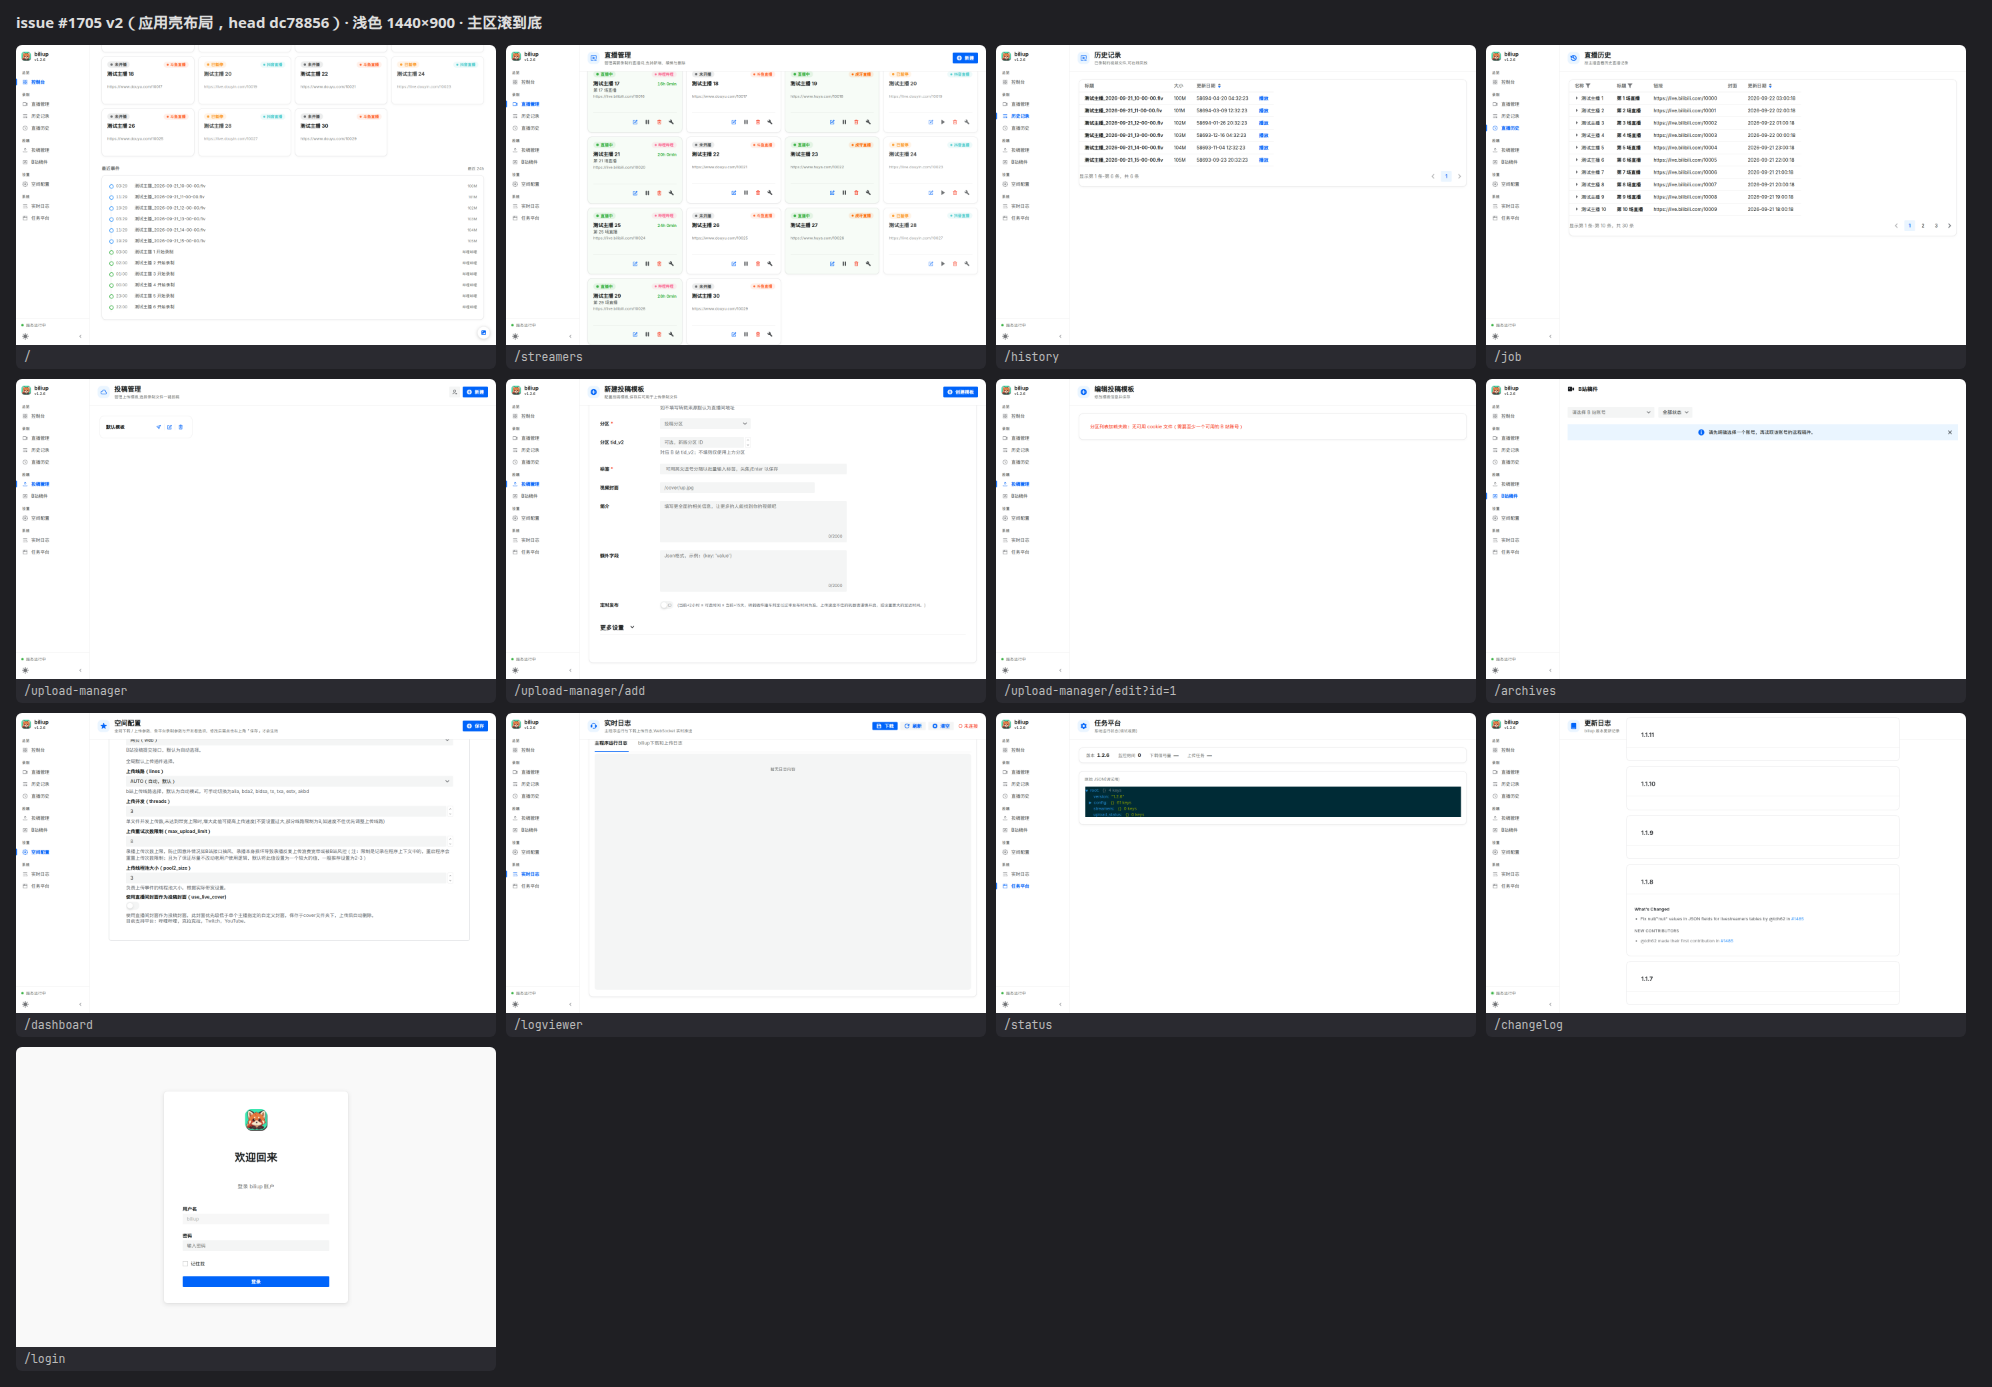
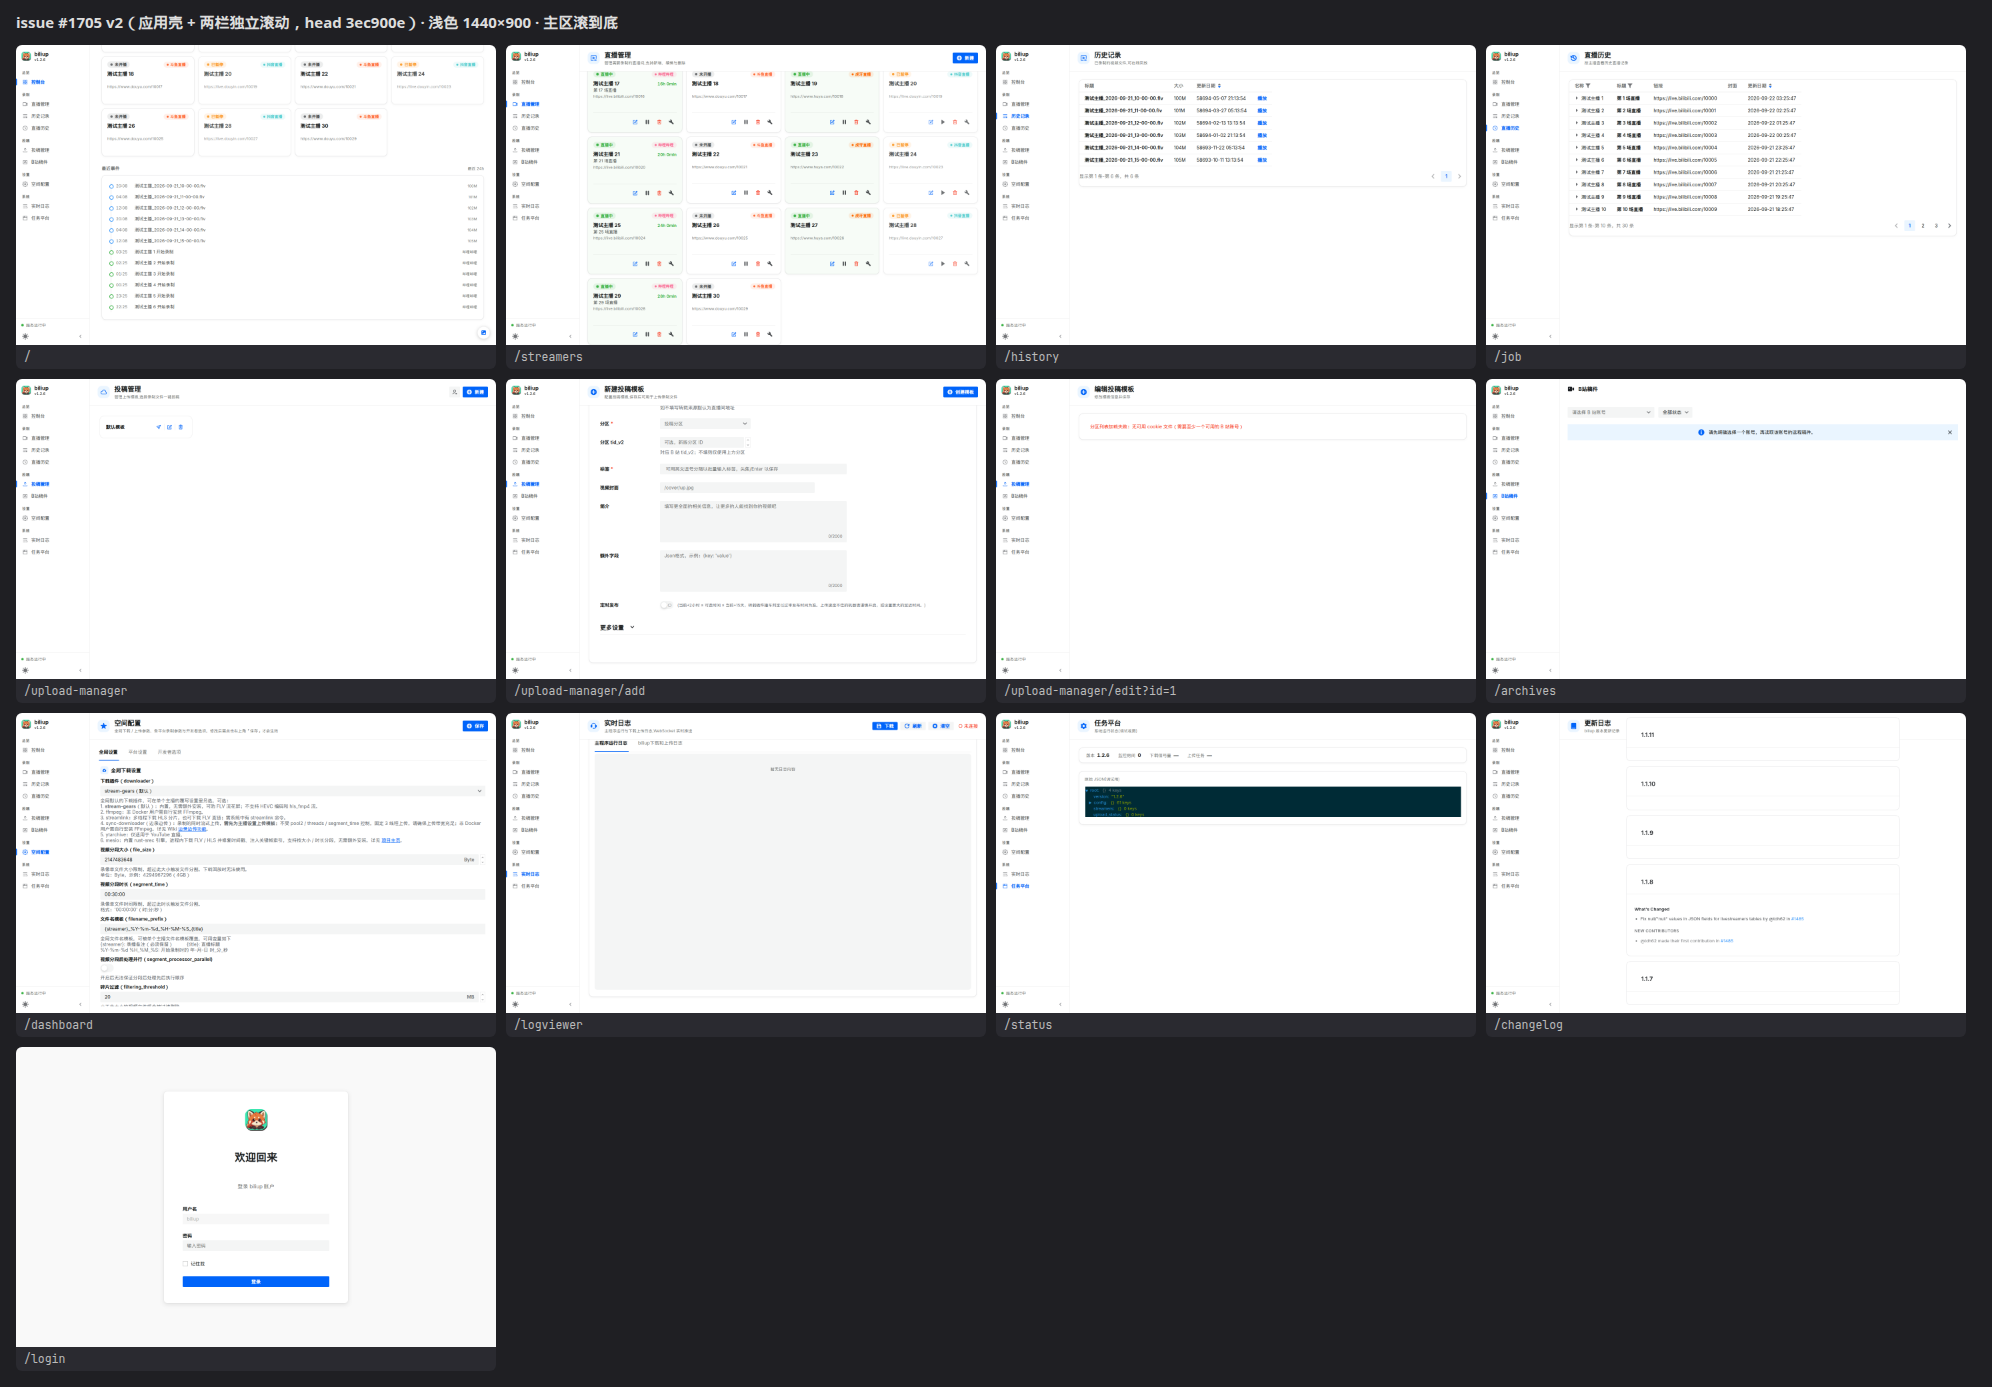
docs: PR #1706 review 第二轮后的截图（两栏独立滚动，9 张）

Changed region(s): [[0.0311, 0.527, 0.2179, 0.713], [0.0934, 0.0, 0.3112, 0.031]]

diff --git a/README.md b/README.md
@@ -35,3 +35,20 @@
 | `issue1705-v2-overlay-override-modal-select.png` | 直播管理「配置覆写」弹窗（Collapse.Panel 不变）及其内部 Select 下拉定位正确 |
 | `issue1705-v2-submitfail-global-to-douyu.png` | commit 3：校验失败自动切到出错字段所在平台并提示（Tab 切换动画已恢复） |
 | `issue1705-v2-all-pages-light.png` | 13 页拼图：浅色 1440×900，主区滚到底，侧栏 / 页脚 / 页头全部在位 |
+
+## v2 第二轮（head `3ec900e`，平台设置去掉外层卡片、两栏独立滚动）
+
+ForgQi 第二条意见：平台列表通过布局不随内容滚动、去掉外层嵌套卡片。空间配置页改为每个 Tab 面板占满页头以下的剩余高度并在内部滚动；
+平台设置是左列列表 + 右栏字段两栏各自滚动。以下文件在 `3ec900e` 上重拍并覆盖同名旧文件（旧版本仍可按旧 SHA 引用）：
+
+| 文件 | 内容 |
+| --- | --- |
+| `issue1705-v2-dashboard-light-platform-bilibili-top.png` | 平台设置两栏布局，无外层卡片，浅色 |
+| `issue1705-v2-dashboard-dark-platform-bilibili-bottom.png` | 右栏（哔哩哔哩 1223px）滚到底，左列平台列表、页头「保存」、侧栏都不动 |
+| `issue1705-v2-mobile-dashboard-light-platform-bilibili-bottom.png` | 390px：上下堆叠，横向标签行固定在顶部，字段区独立滚动 |
+| `issue1705-v2-dashboard-light-global-top.png` | 全局设置一致去掉卡片，分区标题 + 分隔线 |
+| `issue1705-v2-overlay-select-dropdown-after-scroll.png` | 面板内预滚 1k px 打开 Select 并继续滚动，下拉跟随触发器 |
+| `issue1705-v2-overlay-override-modal-select.png` | 「配置覆写」弹窗及其内部 Select（不受影响） |
+| `issue1705-v2-submitfail-global-to-douyu.png` | commit 3 校验定位在嵌套滚动容器内仍正常 |
+| `issue1705-v2-all-pages-light.png` | 13 页拼图（浅色，主区滚到底） |
+| `issue1705-v2-streamers-light-30cards-bottom.png` | 直播管理 30 张卡片滚到底（与上一轮相同） |
